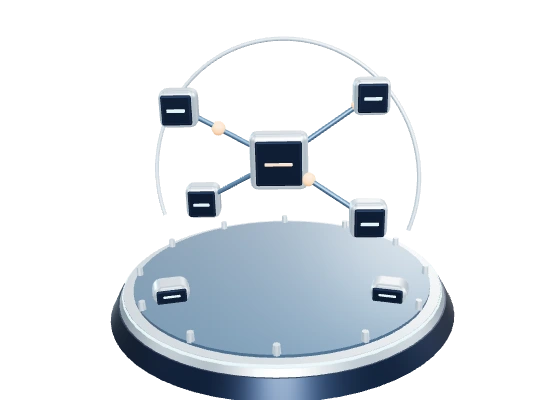
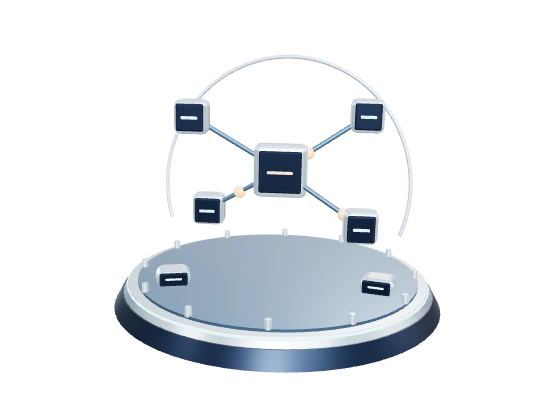
fix layouts

Changed region(s): [[0.1821, 0.09, 0.8196, 1.0]]

diff --git a/site/src/styles/digi.css b/site/src/styles/digi.css
@@ -315,3 +315,142 @@ section > .section-graphic {
   background: transparent;
   border: 0;
 }
+
+/* Homepage scenes sit in dedicated columns, with copy and actions kept together. */
+.hero-scene-caption {
+  position: absolute;
+  inset: auto auto 10px 0;
+  display: flex;
+  align-items: center;
+  gap: 8px;
+  color: #a4b8cf;
+  font: 10px Martian, monospace;
+  letter-spacing: .08em;
+  text-transform: uppercase;
+}
+.hero-art.is-pinned .hero-scene-caption { display: none; }
+.section-graphic-toggle {
+  top: 0;
+  right: 0;
+  bottom: auto;
+  left: auto;
+  opacity: .7;
+}
+.section-graphic-toggle:hover, .section-graphic-toggle:focus-visible { opacity: 1; }
+
+.home-approach, .home-scene-heading, .home-process, .home-faq, .home-contact,
+.home-collection .content-list-heading {
+  display: grid;
+  grid-template-columns: minmax(0, 1.15fr) minmax(0, .85fr);
+  align-items: center;
+  gap: clamp(20px, 4vw, 64px);
+}
+.home-approach, .home-process, .home-faq, .home-contact,
+.home-services, .home-collection {
+  padding: clamp(48px, 6.5vw, 100px) 6%;
+}
+.home-approach > .section-graphic, .home-process > .section-graphic,
+.home-contact > .section-graphic, .home-faq > .section-graphic,
+.home-scene-heading > .section-graphic, .home-collection .section-graphic {
+  grid-column: auto;
+  justify-self: center;
+  width: min(100%, var(--home-scene-width, 420px));
+  margin: 0;
+}
+.home-approach h2 { font-size: clamp(38px, 5.3vw, 82px); }
+.home-approach h2 span { display: block; }
+.home-lead { margin-top: 24px; max-width: 37ch; font-size: clamp(18px, 2vw, 26px); }
+.home-support { margin-top: 14px; max-width: 53ch; color: #465364; }
+
+.home-services { padding-top: 0; }
+.home-scene-heading { border-top: 1px solid #12233733; }
+.home-scene-heading .section-graphic { --home-scene-width: 380px; }
+.home-service-grid {
+  display: grid;
+  grid-template-columns: repeat(3, minmax(0, 1fr));
+  border-block: 1px solid #12233733;
+}
+.home-service {
+  display: flex;
+  flex-direction: column;
+  align-items: flex-start;
+  min-width: 0;
+  padding: clamp(20px, 3vw, 40px);
+  scroll-margin-top: 22px;
+}
+.home-service + .home-service { border-inline-start: 1px solid #12233733; }
+.home-service .section-kicker { margin-bottom: 14px; }
+.home-service h3 { font-size: clamp(24px, 2.5vw, 38px); margin-bottom: 14px; }
+.home-service > p:not(.section-kicker) { color: #465364; }
+.home-service ul { margin: 18px 0 14px; padding-inline-start: 17px; font-size: 14px; }
+.home-service li + li { margin-top: 5px; }
+.home-service > a { margin-top: auto; }
+
+.home-collection .content-list-heading { margin-bottom: 24px; }
+.home-collection .section-graphic { --home-scene-width: 350px; }
+.home-collection .content-card-preview { margin-bottom: 18px; }
+.home-collection .content-card .section-kicker { margin-bottom: 12px; }
+.home-collection .content-card {
+  --card-padding: clamp(20px, 2.8vw, 36px);
+  padding: var(--card-padding);
+}
+.home-collection .content-card-preview {
+  margin: calc(-1 * var(--card-padding)) calc(-1 * var(--card-padding)) 20px;
+  border-width: 0 0 1px;
+}
+.home-collection .content-card-preview img {
+  aspect-ratio: 16 / 10;
+  object-fit: cover;
+  object-position: top;
+}
+
+.home-process > .section-graphic { --home-scene-width: 390px; }
+.home-process > .process-steps {
+  grid-area: auto / 1 / auto / -1;
+  display: grid;
+  grid-template-columns: repeat(3, minmax(0, 1fr));
+  gap: clamp(14px, 3vw, 36px);
+}
+.home-process .process-steps > div { grid-template-columns: 36px minmax(0, 1fr); }
+
+.home-faq { align-items: start; row-gap: 14px; }
+.home-faq > .faq-list { grid-area: 1 / 2 / span 2; align-self: center; }
+.home-faq > .section-graphic { --home-scene-width: 345px; grid-column: 1; }
+
+.home-contact { grid-template-columns: minmax(0, 1.3fr) minmax(0, .7fr); }
+.home-contact h2 { font-size: clamp(42px, 6vw, 94px); }
+.home-contact > .section-graphic { float: none; order: 0; }
+.home-contact .contact-bottom .button { font-size: 13px; gap: 18px; }
+.home-contact .contact-bottom { justify-content: flex-start; gap: clamp(18px, 4vw, 55px); margin-top: 28px; }
+
+@media (max-width: 760px) {
+  .home-service-grid, .home-process > .process-steps { grid-template-columns: 1fr; }
+  .home-service + .home-service { border-inline-start: 0; border-top: 1px solid #12233733; }
+  .home-service { padding-inline: 0; }
+  .home-process > .process-steps { gap: 0; }
+  .home-process .process-steps > div { padding-block: 18px; }
+}
+@media (max-width: 580px) {
+  .home-approach, .home-process, .home-faq, .home-contact {
+    grid-template-columns: minmax(0, 1fr);
+    gap: 18px;
+  }
+  .home-approach > .section-graphic, .home-process > .section-graphic,
+  .home-faq > .section-graphic, .home-contact > .section-graphic { --home-scene-width: 285px; }
+  .home-scene-heading, .home-collection .content-list-heading {
+    grid-template-columns: minmax(0, 1.25fr) minmax(0, 1fr);
+    gap: 10px;
+  }
+  .home-scene-heading h2, .home-collection h2 { font-size: clamp(25px, 6.5vw, 38px); }
+  .home-scene-heading .section-kicker { margin-bottom: 12px; }
+  .home-scene-heading { padding-block: 16px; }
+  .home-faq > .faq-list { grid-area: auto; }
+  .home-faq > .section-graphic { grid-column: auto; }
+  .home-contact .contact-bottom { grid-template-columns: repeat(auto-fit, minmax(min(100%, 180px), 1fr)); }
+}
+@media (max-width: 680px) {
+  .hero-scene-caption { bottom: 4px; font-size: 8px; }
+  #security-core { bottom: 18px; }
+  .hero-art.is-pinned #security-core { bottom: 8px; }
+  #motion-toggle { bottom: 0; }
+}

diff --git a/site/src/motion/section-graphics.ts b/site/src/motion/section-graphics.ts
@@ -230,7 +230,7 @@ export function initSectionGraphics() {
   renderer.toneMapping = THREE.ACESFilmicToneMapping;
   renderer.toneMappingExposure = 1.18;
   const camera = new THREE.PerspectiveCamera(35, width / height, 0.1, 20);
-  camera.position.set(0, 0.92, 5.0);
+  camera.position.set(0, 0.94, 5.38);
   camera.lookAt(0, 0, 0);
 
   const scene = new THREE.Scene();
